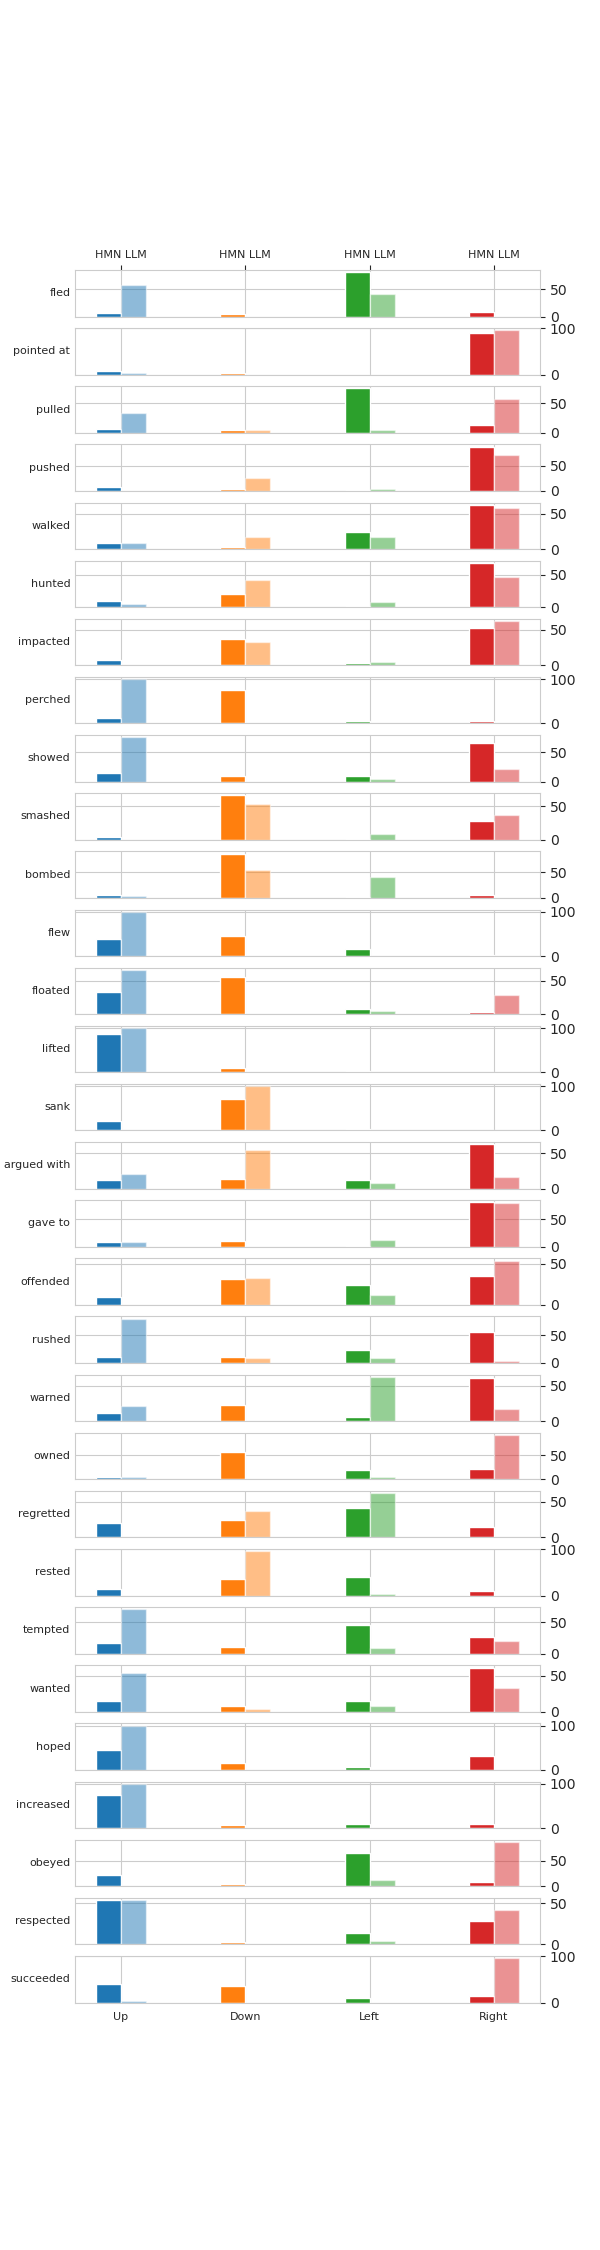
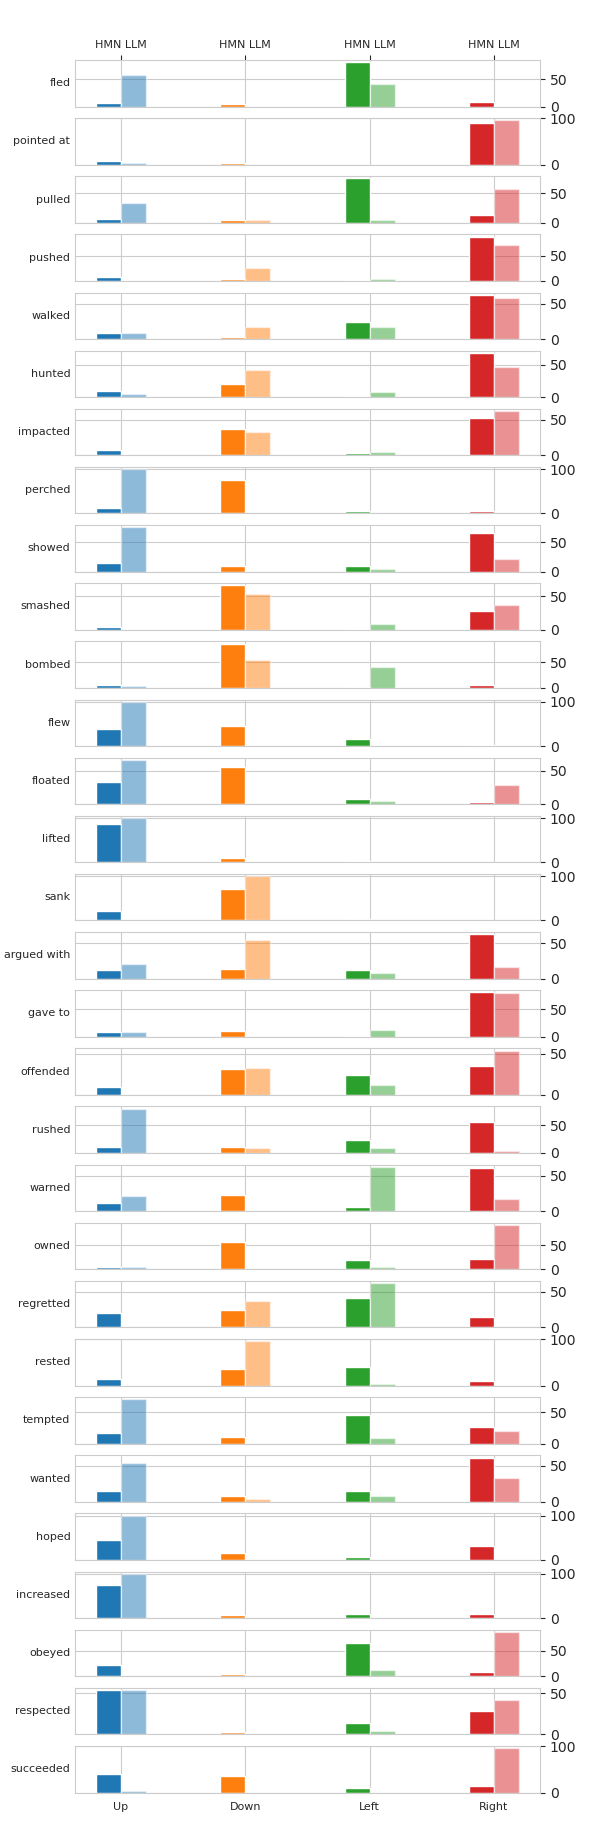
update 5

diff --git a/lister.py b/lister.py
@@ -9,3 +9,20 @@ models = {condition: [extract_model_name(file) for file in os.listdir(os.path.jo
 
 for condition, model_list in models.items():
     print(f'{condition}: {model_list}')
+
+
+# define a variable "cut"
+cut = 210
+# cut the same amount off the top and bottom of each image
+# it should be a total of 400 pixels
+
+from PIL import Image
+
+for condition, model_list in models.items():
+    for model in model_list:
+        image = Image.open(os.path.join(images_folder, condition, f'{condition}_{model}_Choices.png'))
+        width, height = image.size
+        image = image.crop((0, cut, width, height - cut))
+        image.save(os.path.join(images_folder, condition, f'{condition}_{model}_Choices.png'))
+        print(f'{condition}_{model}_Choices.png has been cropped and saved')
+
